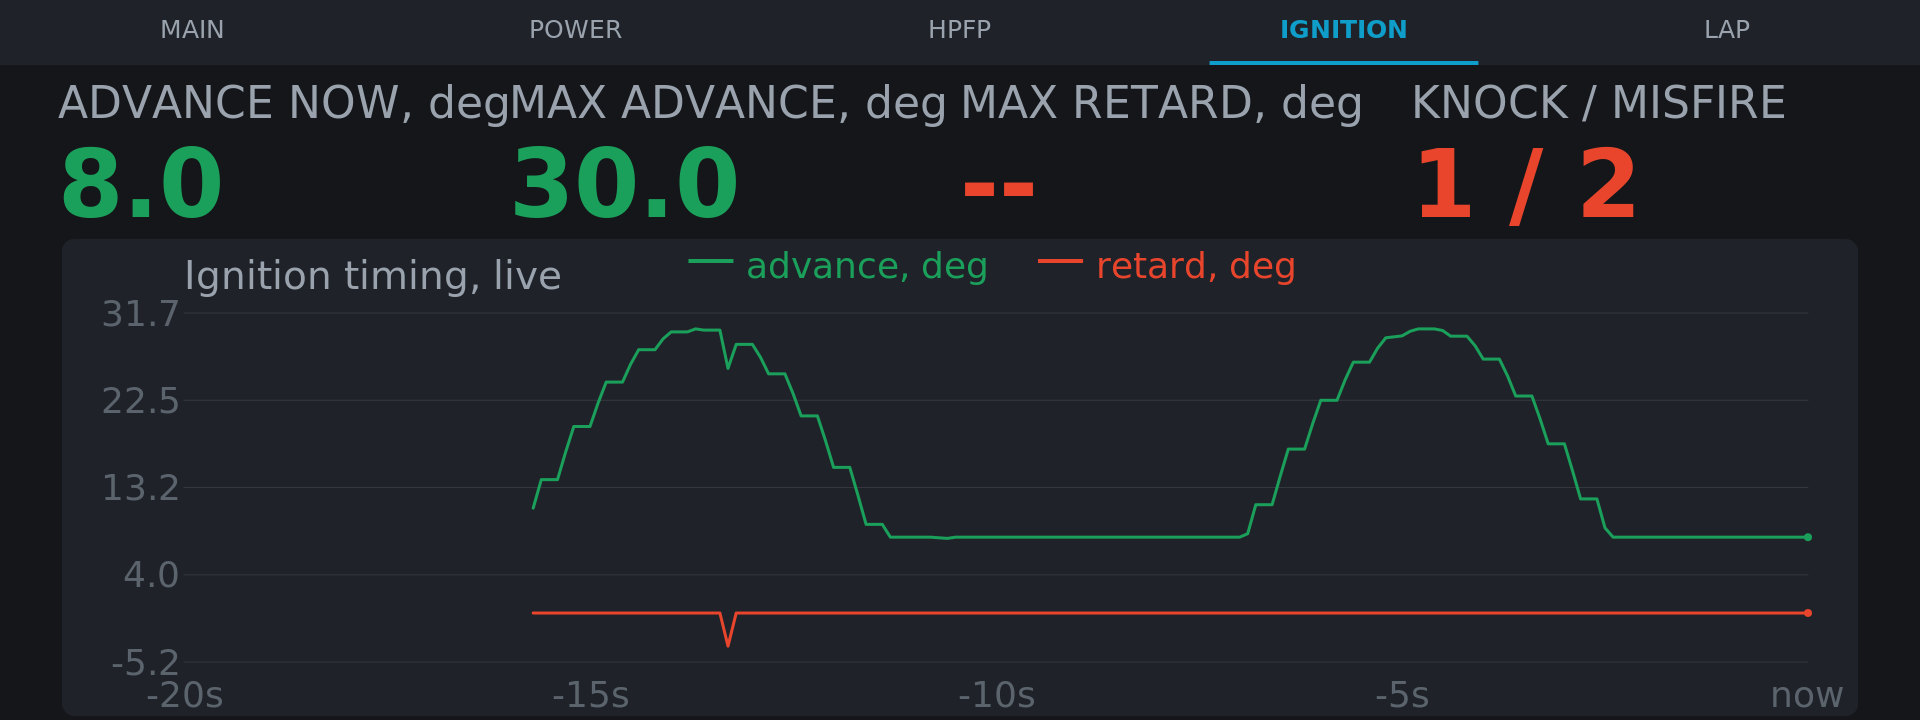
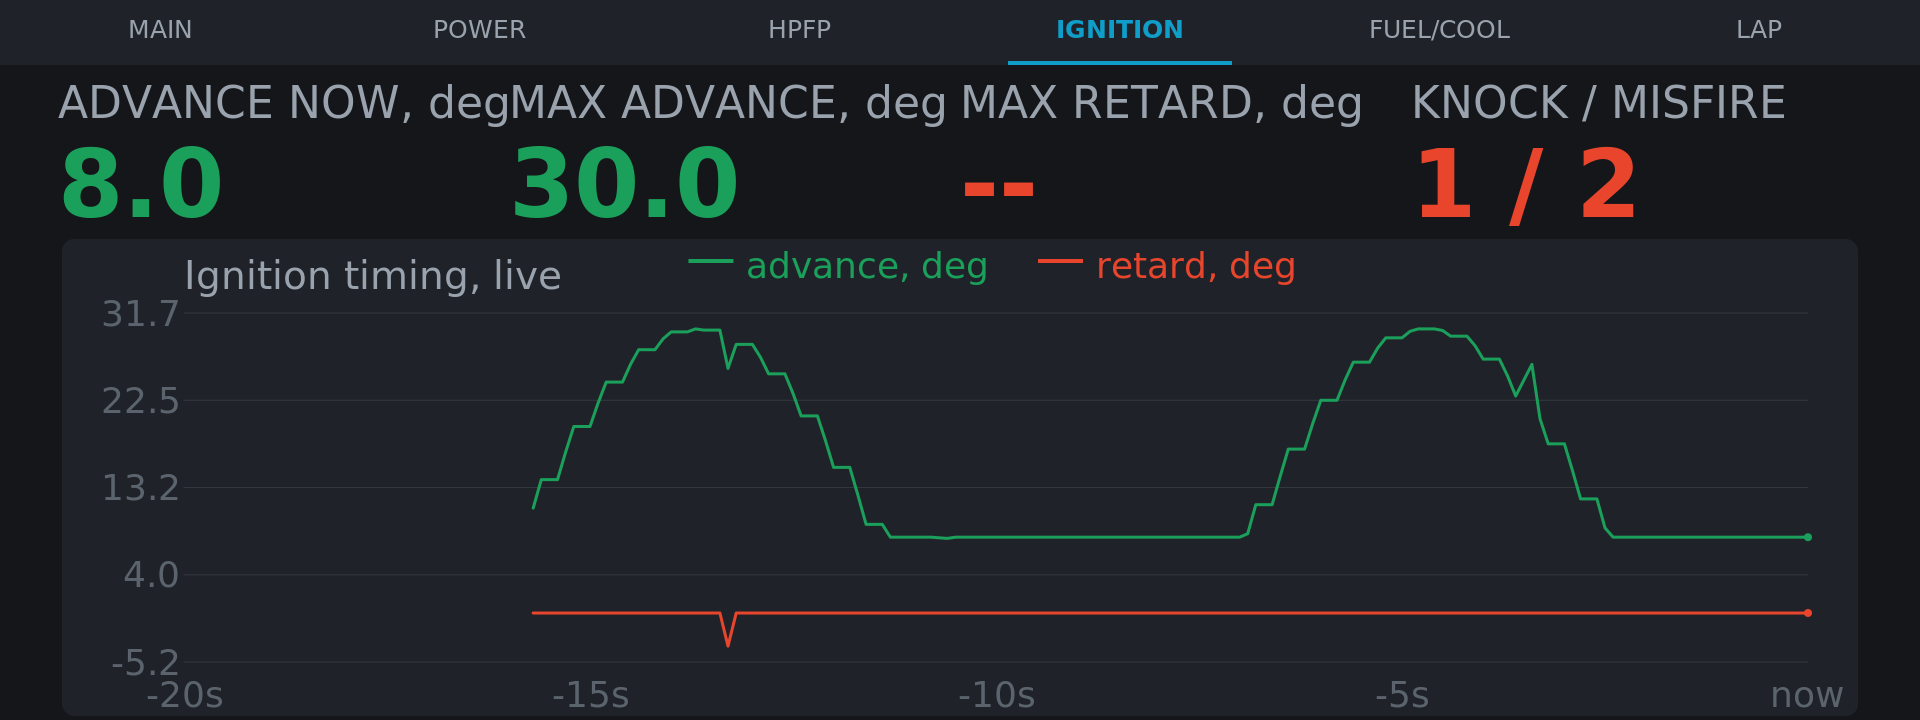
m_vitals_plus: FUEL/COOL tab (fuel temp, oil quality/level, thermostat, fan, radiator) as top-level tab with 3x2 tile grid + percent bars; DID candidates in app.json; demo data; regenerate all previews

diff --git a/apps/m_vitals_plus/main.js b/apps/m_vitals_plus/main.js
@@ -35,7 +35,22 @@ var TABS = [
   { id: "power", label: "POWER" },
   { id: "hpfp",  label: "HPFP" },
   { id: "ign",   label: "IGNITION" },
+  { id: "fuelcool", label: "FUEL/COOL" },
   { id: "lap",   label: "LAP" }
+];
+
+/* FUEL/COOL tab ("Система топлива и охлаждения"): six tiles in a 3x2 grid.
+ * oilQuality / oilLevel have no trustworthy UDS source on B58 (the DME does
+ * not run an oil-condition sensor; the iDrive level display comes from the
+ * cluster module over K-CAN) — they show "--" until a working DID is probed
+ * on the car or a dedicated source is wired in. */
+var FUELCOOL_TILES = [
+  { key: "fuelTemp",    label: "FUEL TEMP",     unit: "\u00b0C", dp: 0 },
+  { key: "oilQuality",  label: "OIL QUALITY",   unit: "%",     dp: 0, bar: true },
+  { key: "oilLevel",    label: "OIL LEVEL",     unit: "%",     dp: 0, bar: true },
+  { key: "thermoPos",   label: "THERMOSTAT",    unit: "%",     dp: 0, bar: true },
+  { key: "fanRpm",      label: "FAN",           unit: "rpm",   dp: 0 },
+  { key: "radTemp",     label: "RADIATOR",      unit: "\u00b0C", dp: 0 }
 ];
 
 /* Lap tab: acceleration time targets (km/h) and the live side metrics */
@@ -100,6 +115,12 @@ var v = {
   fuelPresAct: null,         // HPFP rail pressure actual, bar
   fuelPresReq: null,         // HPFP rail pressure requested, bar
   ignAdv: null,              // ignition advance, deg CA (ZWSPAEKT)
+  fuelTemp: null,            // fuel temperature, deg C
+  thermoPos: null,           // coolant valve / thermostat position, % open
+  fanRpm: null,              // engine cooling fan speed, rpm
+  radTemp: null,             // radiator outlet coolant temperature, deg C
+  oilQuality: null,          // oil condition %, no trusted source yet -> "--"
+  oilLevel: null,            // oil level %, no trusted source yet -> "--"
   stamp: {}                  // key -> Date.now() of last good read
 };
 
@@ -171,7 +192,7 @@ var ignLive = {
 /* helpers                                                            */
 /* ------------------------------------------------------------------ */
 
-var ALL_TILES = PRIMARY_TILES.concat(SECONDARY_TILES, [
+var ALL_TILES = PRIMARY_TILES.concat(SECONDARY_TILES, FUELCOOL_TILES, [
   { key: "rpm", label: "RPM", unit: "", dp: 0 }
 ]);
 
@@ -280,6 +301,12 @@ function tileColor(key, val) {
     case "voltage":  return val < 12.0 ? c("alert") : c("textPrimary");
     case "knock":    return counters.knock > 0 ? c("alert") : c("textPrimary");
     case "misfire":  return counters.misfireCount > 0 ? c("alert") : c("textPrimary");
+    case "fuelTemp": return val > 60 ? c("warning") : c("textPrimary");
+    case "thermoPos": return val > 90 ? c("warning") : c("textPrimary");
+    case "fanRpm":   return val > 2500 ? c("warning") : (val > 100 ? c("textPrimary") : c("textTertiary"));
+    case "radTemp":  return val > 105 ? c("warning") : c("textPrimary");
+    case "oilQuality": return val < 20 ? c("alert") : val < 40 ? c("warning") : c("success");
+    case "oilLevel":   return val < 30 ? c("alert") : val < 50 ? c("warning") : c("textPrimary");
   }
   return c("textPrimary");
 }
@@ -334,6 +361,30 @@ function drawTile(ctx, x, y, tw, th, tile, val) {
   ctx.fillStyle(col);
   var txt = fmt(tile.key, val);
   ctx.fillText(txt, x + pad, y + th * 0.34);
+
+  // optional 0..100 fill bar along the bottom of the tile (percent metrics)
+  if (tile.bar && num(val)) {
+    var bx = x + pad, bw = tw - 2 * pad;
+    var by = y + th - Math.round(th * 0.16), bh = Math.max(4, Math.round(th * 0.07));
+    ctx.fillStyle(c("divider") || c("textTertiary"));
+    ctx.fillRect(bx, by, bw, bh);
+    ctx.fillStyle(col);
+    ctx.fillRect(bx, by, Math.round(bw * Math.min(Math.max(val, 0), 100) / 100), bh);
+  }
+}
+
+/* FUEL/COOL tab: six tiles in a 3 x 2 grid under the tab strip. */
+function drawFuelCoolTab(ctx, top) {
+  var area = gH - top;
+  var cols = 3, rows = 2;
+  var cw = Math.floor(gW / cols);
+  var rh = Math.floor(area / rows);
+  for (var i = 0; i < FUELCOOL_TILES.length; i++) {
+    var t = FUELCOOL_TILES[i];
+    var x = (i % cols) * cw;
+    var y = top + Math.floor(i / cols) * rh;
+    drawTile(ctx, x, y, cw, rh, t, valueFor(t.key));
+  }
 }
 
 /* Main screen: 4 rows x 3 columns per the VMG reference. The centre cell of
@@ -1287,6 +1338,7 @@ function render() {
   else if (gActiveTab === "power") drawPower(ctx, top);
   else if (gActiveTab === "hpfp") drawHpfpTab(ctx, top);
   else if (gActiveTab === "ign") drawIgnTab(ctx, top);
+  else if (gActiveTab === "fuelcool") drawFuelCoolTab(ctx, top);
   else if (gActiveTab === "lap") {
     if (gLapView === "detail" && lap.state === "done") drawLapDetails(ctx, top);
     else drawLap(ctx, top);
@@ -1454,7 +1506,12 @@ var gDmeCfg = null;   // config.dme from app.json (set in init)
 /* metric names in poll order (baro first: boost needs it) */
 var POLL_METRICS = ["iat", "egt", "oilPressAbs", "boost", "lambda",
                     "mixtureAdapt", "knockRetard", "baro", "loadDirect",
-                    "gearbox", "voltage", "fuelPresAct", "fuelPresReq", "ignAdv"];
+                    "gearbox", "voltage", "fuelPresAct", "fuelPresReq", "ignAdv",
+                    "fuelTemp", "thermoPos", "fanRpm", "radTemp"];
+
+/* metrics that are NOT polled from the DME (no trustworthy UDS source yet):
+ * they stay null and render as "--" until wired up. */
+var NO_SOURCE_METRICS = ["oilQuality", "oilLevel"];
 
 function metricList(metric) {
   var list = gDmeCfg[metric];
@@ -1662,6 +1719,15 @@ function demoStep() {
   // HPFP rail pressure actual/requested for the lap detail charts
   set("fuelPresReq", 40 + load * 250);
   set("fuelPresAct", 38 + load * 246 + 4 * Math.sin(t * 3.1));
+
+  // FUEL/COOL tab: fuel temp follows intake with a lag; thermostat opens as
+  // coolant climbs; fan ramps above ~100C; radiator outlet sits below coolant
+  set("fuelTemp", 18 + load * 24 + (v.iat - 28) * 0.5);
+  var cly = v.coolant;
+  set("thermoPos", Math.max(0, Math.min(100, (cly - 92) * 8 + 10 * Math.max(0, Math.sin(t * 0.15)))));
+  set("fanRpm", cly > 99 ? Math.round((cly - 99) * 220 + 400 * Math.abs(Math.sin(t * 0.7))) : 0);
+  set("radTemp", cly - 6 - load * 4);
+  // oilQuality / oilLevel: no simulated source either -> stay "--" on purpose
 
   // ignition advance / knock retard for the ignition detail chart
   set("ignAdv", num(v.rpm) && v.rpm > 700 ? 8 + load * 22 - Math.abs(retardDemo()) : 8);

diff --git a/kit/tools/simulate.js b/kit/tools/simulate.js
@@ -429,7 +429,7 @@ function rasterize(svgPath, pngPath, cb) {
 /* ------------------------------------------------------------------ */
 
 runApp(8, function () {
-  var TAB_LABELS = ["main", "power", "hpfp", "ign", "lap"];
+  var TAB_LABELS = ["main", "power", "hpfp", "ign", "fuelcool", "lap"];
   var wanted = tabFilter ? [tabFilter] : TAB_LABELS;
   var gW = SCREEN_W, gH = SCREEN_H;
   var queue = wanted.slice();
